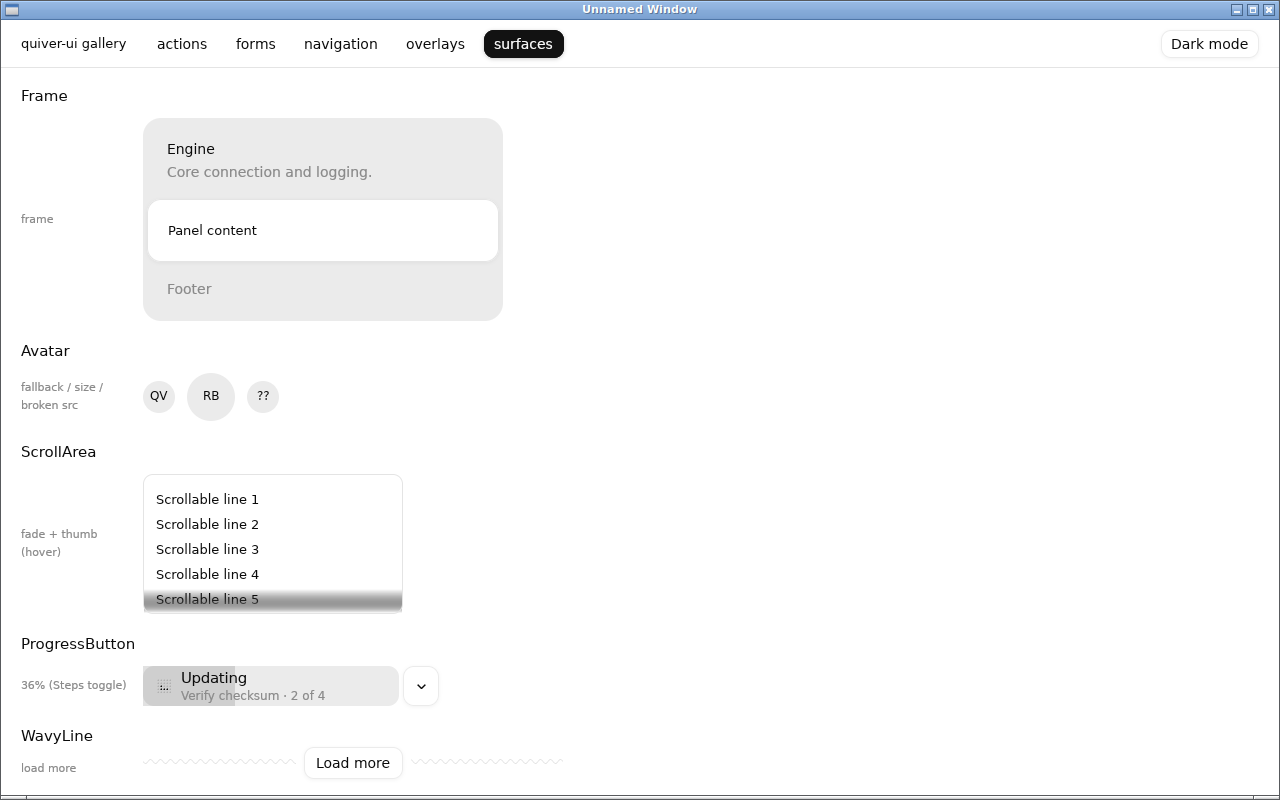
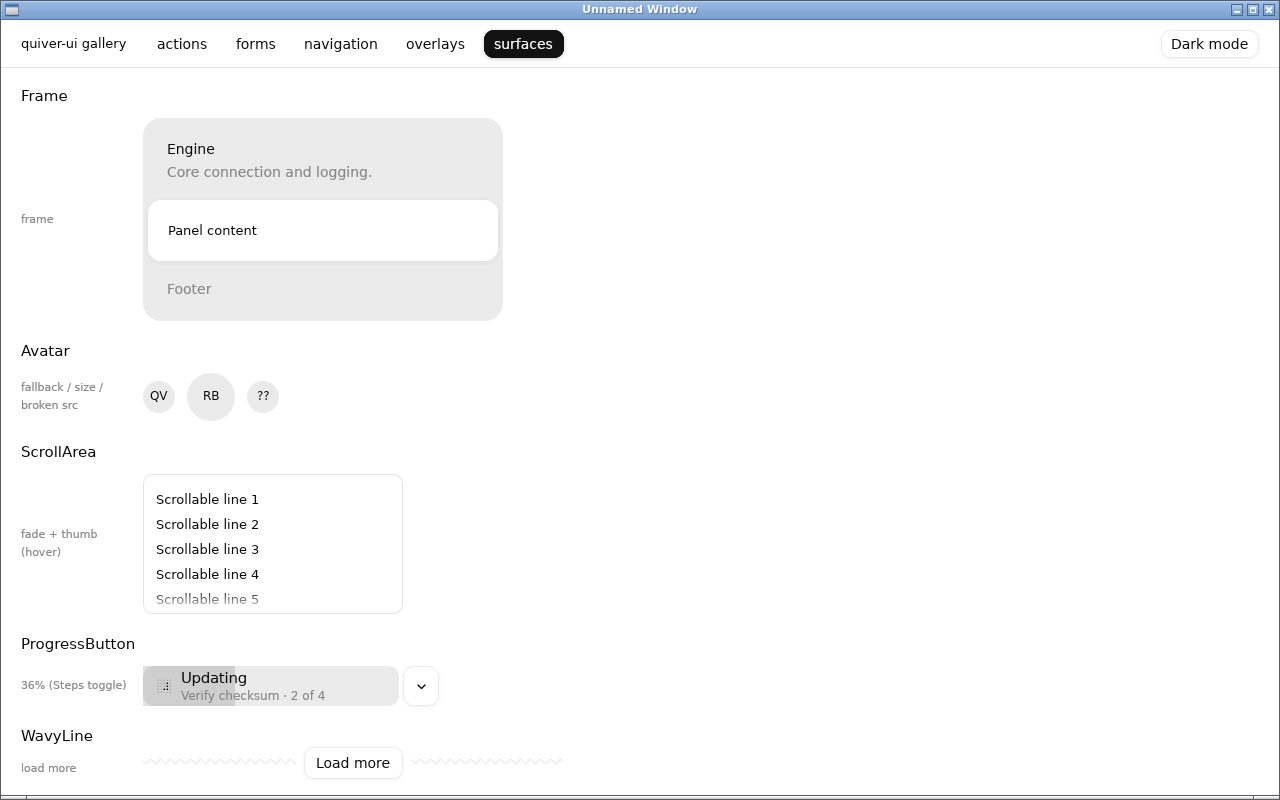
feat(ui): gallery screenshots, scroll fade fix

Changed region(s): [[0.0938, 0.7188, 0.3125, 0.7812]]

diff --git a/crates/quiver-ui/src/scroll_area.rs b/crates/quiver-ui/src/scroll_area.rs
@@ -5,9 +5,9 @@
 
 use gpui::prelude::*;
 use gpui::{
-    canvas, div, linear_color_stop, linear_gradient, point, px, transparent_black, AnyElement, App,
-    Axis, ElementId, Hsla, MouseButton, MouseDownEvent, MouseMoveEvent, MouseUpEvent, ScrollHandle,
-    StyleRefinement, Window,
+    canvas, div, linear_color_stop, linear_gradient, point, px, AnyElement, App, Axis, ElementId,
+    Hsla, MouseButton, MouseDownEvent, MouseMoveEvent, MouseUpEvent, ScrollHandle, StyleRefinement,
+    Window,
 };
 
 use crate::ids::child_id;
@@ -87,7 +87,7 @@ impl ParentElement for ScrollArea {
 }
 
 fn edge_fade(color: Hsla, top: bool, strength: f32) -> impl IntoElement {
-    let (from, to) = (color.opacity(strength), transparent_black());
+    let (from, to) = (color.opacity(strength), color.opacity(0.0));
     let angle = if top { 180.0 } else { 0.0 };
     let base = div()
         .absolute()
